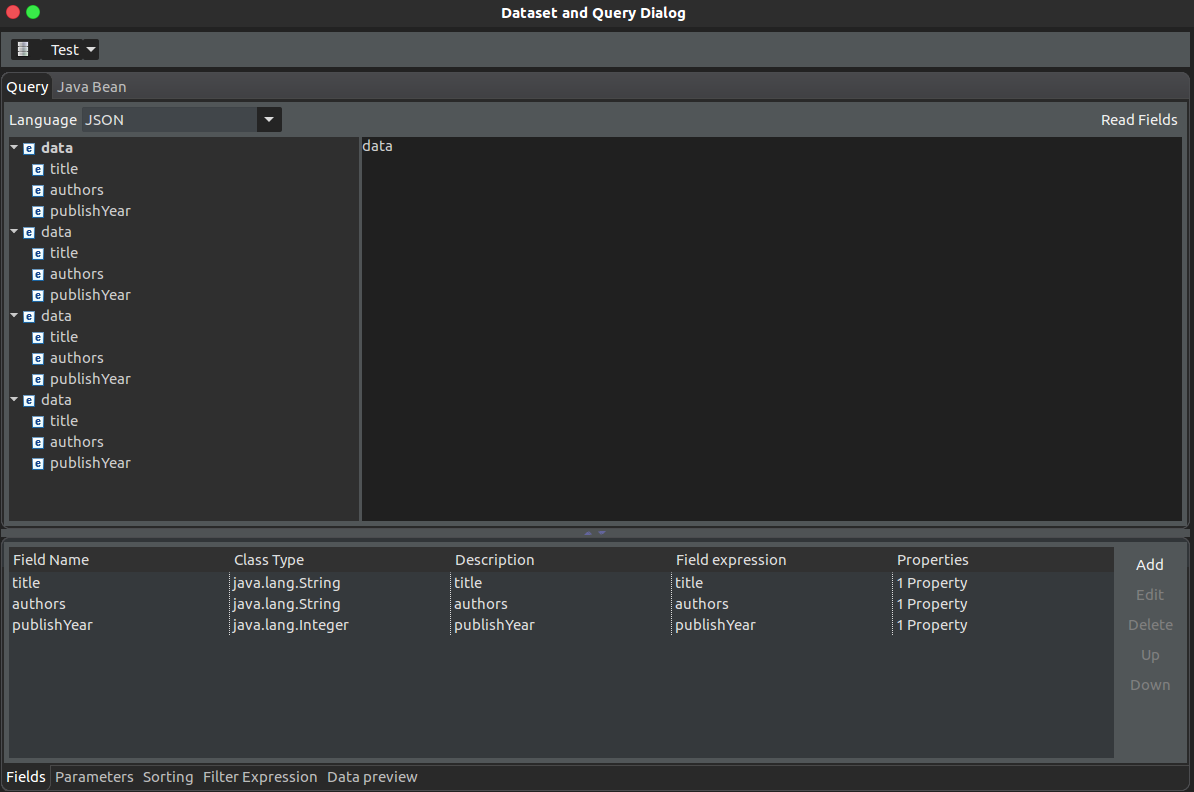
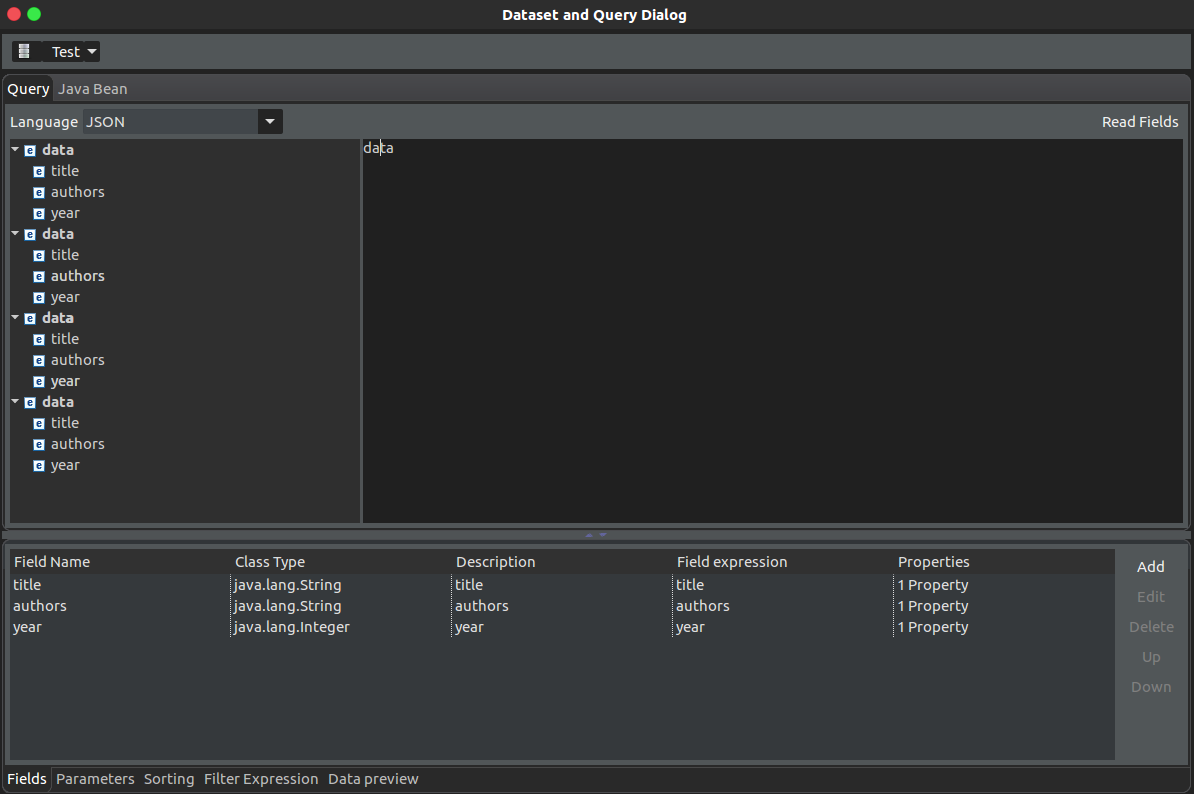
Publish 'Excel reports with PHP and Jasper'

diff --git a/source/_posts/excel-reports-with-php-and-jasper.md b/source/_posts/excel-reports-with-php-and-jasper.md
@@ -1,0 +1,129 @@
+---
+title: Excel reports with PHP and Jasper
+tags:
+  - php
+  - jaspert-reports
+date: 2018-02-23 11:55:20
+---
+
+
+At least one time in the life of a developer has been happened the need to create an Excel file with data, maybe coming from database, external services or something else. For this reason all PHP developers certainly know [PHPExcel](https://github.com/PHPOffice/PHPExcel), or its successor [PhpSpreadsheet](https://github.com/PHPOffice/PhpSpreadsheet), and each one of them doesn't wanna deal with it, unless necessary.
+
+Not properly true: PHPExcel is a great library which saved all of us many times while programming, but often we don't know which alternatives exist or maybe the report we have to generate is too complex and also its development with PHPExcel.
+
+## Jasper Studio
+Jasper Studio is a cross-platform software written in Java which allows to create, view and manipulate reports in many formats, providing the possibility to connect them to different kinds of data sources (databases, JSON, webservices, csv, etc.).
+It was born on 2001 and its the perfect software for who daily deals with reporting because allows the full management of reports directly from user-interface, including to edit styles, positions and properties of each elements without write a line of code - in most cases. 
+
+Probably you're asking in your mind «Well, but why you are talking about this software?» and the answer is that Jasper is the alternative solution.
+
+## PHP & Jasper
+On 2012 was created a project called [JasperStarter](http://jasperstarter.cenote.de/), a library which allows the use command line to compile and generate Jasper reports. Awesome! Isn't it?
+
+Well, but another step is missing.
+
+On 2018 a good guy (:roll_eyes:) has published a PHP package to integrate the JasperStarter library with PHP: **drum roll** and welcome to [JasperPHP](https://github.com/davidecaruso/jasper-php).
+
+> Note: there are many library like this existing from more time, but I prefered to create my own.
+
+## Let's do a report
+Now is time to put into practice all of this.
+
+### Create a Jasper Report
+First of all you need to install JasperStudio on your computer, [here](https://community.jaspersoft.com/project/jaspersoft-studio/releases) you can choose which version and for which OS to install.
+
+Open it and create a new report `File > New > Jasper Report` and choose a template - for this example I have used "Blank A4 Landascape" - and choose "One Empty Record" as *Data Adapter*. 
+
+**Congratulation!** your empty report was created. Well, go straight to the point.
+Probably you are seeing something like that (if not maybe because I'm using the dark theme :sunglasses:):
+
+![Jasper Studio #1](/images/2018-02-22-jasper-studio-1.png "Jasper Studio #1")
+
+> Jasper works with *.jrxml* source files and *.jasper* compiled files, be prepared to put hands into source files.
+
+### Set JSON as Jasper data source
+As said, we could have many type of data source, but for this *minimalistic* example we are going to use the following as source:
+```json
+{
+  "data": [
+    {
+      "title": "Clean Code: A Handbook of Agile Software Craftsmanship",
+      "authors": "Robert C. Martin",
+      "year": "2008"
+    },
+    {
+      "title": "Design Patterns",
+      "authors": "Erich Gamma, John Vlissides, Ralph Johnson, Richard Helm",
+      "year": "1994"
+    },
+    {
+      "title": "The Mythical Man-Month",
+      "authors": "Fred Brooks",
+      "year": "1975"
+    },
+    {
+      "title": "The Pragmatic Programmer",
+      "authors": "Andy Hunt",
+      "year": "1999"
+    }
+  ]
+}
+```
+So create a data source `File > New > Data Adapter`, choose "JSON File" and insert the path to your file.
+
+On the "Outline" view, on the bottom-left corner, right-click on report name and go to "Dataset and Query Dialog". Here by the dropdown menu select the earlier created data source, recommending to select "JSON" as language and, if works, you will see the list of fields under *data*. You can interact with them right-clicking on them, so set *data* as record node and the others as field. The result has to be like this:
+
+![Jasper Studio #2](/images/2018-02-22-jasper-studio-2.png "Jasper Studio #2")
+
+In this way, on the "Outline" view again, you will see the fields. Simply drag-and-drop them into "Detail 1" band and will be created field instances and their relative labels.
+
+Done, the report is ready to be generated via PHP.
+
+### Generate Jasper report using PHP
+Into an existing or an empty project, run `composer require davidecaruso/jasper-php`, then move all essential files into your project (*jrxml* and JSON file). Then, your script will be like this:
+
+```php
+<?php
+require_once '/vendor/autoload.php';
+
+// Create a new instance of JasperPHP
+$jasper = new JasperPHP\JasperPHP();
+
+// Compile jrxml file into jasper
+$jasper->compile('/path/to/report.jrxml')->execute();
+
+// Generate the report
+$jasper->process(
+    '/path/to/report.jasper',
+    null,
+    ['xlsx'],
+    [],
+    [
+        'driver' => 'json',
+        'json_query' => 'data', // The data is under the JSON "data" layer
+        'data_file' => '/path/to/data.json'
+    ]
+)->execute();
+```
+
+Yes, it worked, but the Excel file is orrible.
+
+### Tips to make a better Jasper Report
+You can play with the properties of each elements and of the report itself:
+- delete bands if unnecessary and also blank spaces in them because will be replicated also in the generated file;
+- change and beautify styles (borders, text styles, alignment, etc.) using the appropriate "Properties" tab;
+- remove pagination because is provided as default, so go to `Outline > Click on report name > Properties > Advanced > Pagination` and set "Ignore Pagination" to `true`;
+- if you need to "freeze" rows or columns do `Click on report name > Properties > Advanced > Misc > Edit Properties > Add` and search for something like **net.sf.jasperreports.export.xls.freeze.row** (or **\*.column**) and add a number value for row and a letter for column;
+> Example of jrxml output file to freeze until to "D" column and to second row":
+```xml
+	<property name="net.sf.jasperreports.export.xls.freeze.row" value="3"/>
+	<property name="net.sf.jasperreports.export.xls.freeze.column" value="E"/>
+```
+- use Jasper functionalities to perform operations like sum, average, etc.;
+- instead of use a JSON file you could pass to Jasper a json-encoded array, maybe with data coming from a database or use a direct connection to it;
+- integrate subreports into a main report (or maybe wait for the next article).
+
+## Example
+The following link points to the report of the example, so [download it](http://s000.tinyupload.com/?file_id=94589912227645439654) and generate it.
+
+<br><br>Bye.

diff --git a/source/_posts/overloading-in-php.md b/source/_posts/overloading-in-php.md
@@ -103,4 +103,5 @@ PHP has many magic methods for overloading that you can see
 [__unset]: http://php.net/manual/en/language.oop5.overloading.php#object.unset
 [__call]: http://php.net/manual/en/language.oop5.overloading.php#object.call
 [__callstatic]: http://php.net/manual/en/language.oop5.overloading.php#object.callstatic
- 
+
+<br><br>Bye.

diff --git a/source/_posts/hello-world.md b/source/_posts/hello-world.md
@@ -42,3 +42,4 @@ hexo server
 
 Now if you visit *http://localhost:4000/* you can see a running Hexo blog.
 If you want to know more things about Hexo visit its [documentation page](https://hexo.io/docs/).
+<br><br>Bye.

diff --git a/source/about/index.md b/source/about/index.md
@@ -53,5 +53,4 @@ Coz I wanna to write here what I daily learn, concerning programming or whatever
 Remember:
 > Verba volant, scripta manent.
 
-<br/>
-Bye.
+<br><br>Bye.
